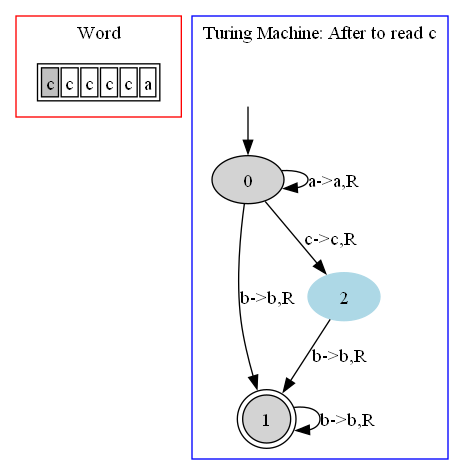
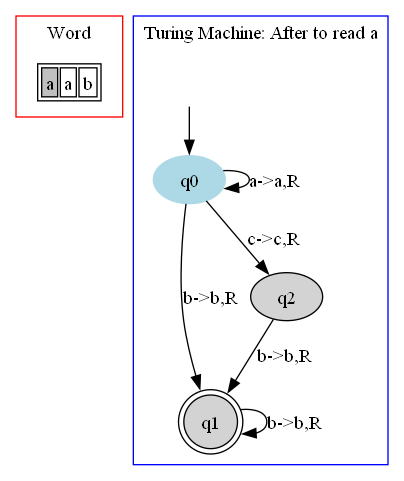
Inseridos nomes de estado com q

Changed region(s): [[0.0297, 0.0295, 0.9802, 0.9726]]

diff --git a/TM/turingmachine.cpp b/TM/turingmachine.cpp
@@ -190,9 +190,9 @@ std::string TuringMachine::produce_content_of_draw()
     for (int index = 0; index < this->structure.size(); ++index)
     {
         if (index == this->id_of_acceptance_state)
-            content += "\t\t"+std::to_string(index)+" [shape=\"doublecircle\"];\n";
+            content += "\t\tq"+std::to_string(index)+" [shape=\"doublecircle\"];\n";
         else
-            content += "\t\t"+std::to_string(index)+";\n";
+            content += "\t\tq"+std::to_string(index)+";\n";
     }
 
     for (int index = 0; index < this->structure.size(); ++index)
@@ -219,13 +219,13 @@ std::string TuringMachine::produce_content_of_draw()
 
             }
 
-            content += "\t\t"+std::to_string(index)+"->"+std::to_string(index2)+
+            content += "\t\tq"+std::to_string(index)+"->q"+std::to_string(index2)+
                     "[label=\""+s+"\"];\n";
         }
     }
 
     content += "x [color=white, label=\"\"];";
-    content += "\t\tx->"+std::to_string(this->start_state);
+    content += "\t\tx->q"+std::to_string(this->start_state);
 
     content += "\t}\n"
         "\n"
@@ -276,16 +276,16 @@ std::string TuringMachine::produce_content_of_draw_considering_input
         if (index == this->current_state)
         {
             if (index == this->id_of_acceptance_state)
-                content += "\t\t"+std::to_string(index)+" [shape=\"doublecircle\",color=\"lightblue\"];\n";
+                content += "\t\tq"+std::to_string(index)+" [shape=\"doublecircle\",color=\"lightblue\"];\n";
             else
-                content += "\t\t"+std::to_string(index)+" [color=\"lightblue\"];\n";
+                content += "\t\tq"+std::to_string(index)+" [color=\"lightblue\"];\n";
         }
         else
         {
             if (index == this->id_of_acceptance_state)
-                content += "\t\t"+std::to_string(index)+" [shape=\"doublecircle\"];\n";
+                content += "\t\tq"+std::to_string(index)+" [shape=\"doublecircle\"];\n";
             else
-                content += "\t\t"+std::to_string(index)+";\n";
+                content += "\t\tq"+std::to_string(index)+";\n";
         }
     }
 
@@ -313,13 +313,13 @@ std::string TuringMachine::produce_content_of_draw_considering_input
 
             }
 
-            content += "\t\t"+std::to_string(index)+"->"+std::to_string(index2)+
+            content += "\t\tq"+std::to_string(index)+"->q"+std::to_string(index2)+
                     "[label=\""+s+"\"];\n";
         }
     }
 
     content += "x [color=white, label=\"\"];";
-    content += "\t\tx->"+std::to_string(this->start_state);
+    content += "\t\tx->q"+std::to_string(this->start_state);
 
     content += "\t}\n"
         "\n";

diff --git a/TM/main.cpp b/TM/main.cpp
@@ -11,7 +11,7 @@ int main(int argc, char *argv[])
 
     TuringMachine tm(true);
     tm.configure_sample(TuringachineSamples::get_structure_of_debug_sample());
-    //tm.draw_machine(local_url, tm.getNameOfTuringMachine()+".png");
+    tm.draw_machine(local_url, tm.getNameOfTuringMachine()+".png");
 
     //tm.is_this_input_string_in_the_language_with_message("aab"); //This must be accepted
     //tm.is_this_input_string_in_the_language_with_message("aaac"); //This must NOT be accepted
@@ -20,12 +20,12 @@ int main(int argc, char *argv[])
     //tm.is_this_input_string_in_the_language_with_message("cbbbb"); //This must be accepted
     //tm.is_this_input_string_in_the_language_with_message("ccccca"); //This must NOT be accepted
 
-    //tm.is_this_input_string_in_the_language_with_message("aab", true); //This must be accepted
+    tm.is_this_input_string_in_the_language_with_message("aab", true); //This must be accepted
     //tm.is_this_input_string_in_the_language_with_message("aaac", true); //This must NOT be accepted
     //tm.is_this_input_string_in_the_language_with_message("c", true); //This must NOT be accepted
     //tm.is_this_input_string_in_the_language_with_message("cb", true); //This must be accepted
     //tm.is_this_input_string_in_the_language_with_message("cbbbb", true); //This must be accepted
-    tm.is_this_input_string_in_the_language_with_message("ccccca", true); //This must NOT be accepted
+    //tm.is_this_input_string_in_the_language_with_message("ccccca", true); //This must NOT be accepted
 
     //return a.exec();
     return 0;
